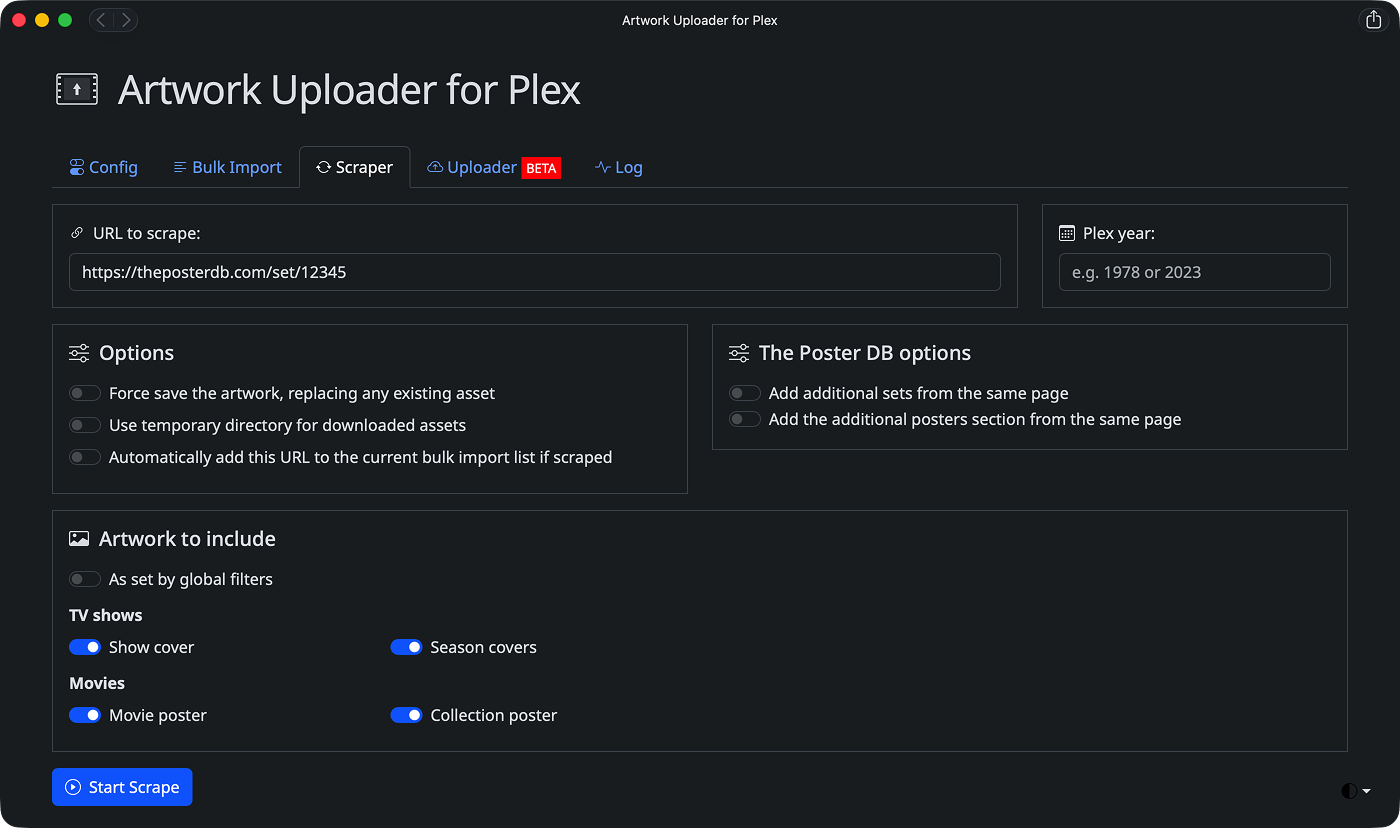
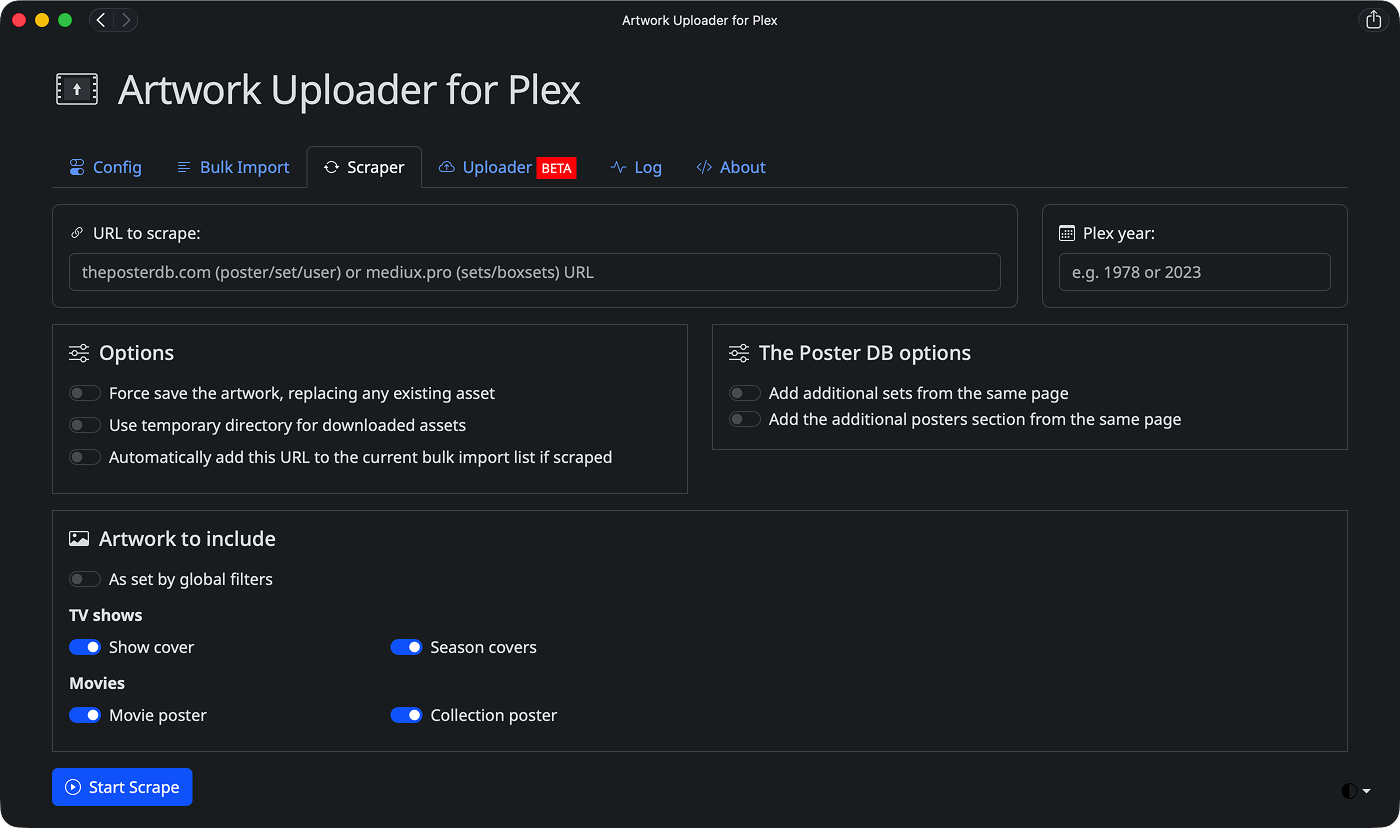
Updated README.md and screenshots to include about tab

diff --git a/README.md b/README.md
@@ -2,11 +2,11 @@
 # Artwork Uploader for Plex 
 Adapted from a fork of plex-poster-set-helper by Brian Brown
 
-Artwork Uploader is a tool to help upload sets of posters from ThePosterDB or MediUX (including sets and boxsets) or scrape posters from MediUX and upload them to your Plex server in seconds!
+Artwork Uploader is a tool to help process sets of posters from ThePosterDB or MediUX (including sets and boxsets) and upload them to your Plex server or download them to your Kometa aset directory in seconds!
 
 # What's different from Brian's original app?
 ### Upload Zip files
-You can upload the Zip file you download from theposterdb.com or mediux.pro.  It should handle all types of Zip, including the odd misnamed file from MediUX.  This feature is still in Beta so help me out with some feedback here!
+You can upload the Zip file you download from theposterdb.com or mediux.pro.  It should handle all types of Zip, including the odd misnamed file from MediUX.  This feature is still in Beta so help out with some feedback here!
 This is also to keep theposterdb happy that we're not breaking their terms of service by scraping.
 
 ### Artwork tracking for speedy updates
@@ -19,7 +19,7 @@ If you really want to upload artwork again, use the ```--force``` option at the 
 There are also a couple of new options for thePosterDb, which will allow you to also grab additional sets and additional posters from the same page.  This is sometimes useful for big sets like the Marvel or Disney movies, where you'll otherwise need to specify multiple sets.  This is against the terms of service of theposterdb.com so we encourage you to login, download the files you want, and upload them using this tool, rather than scraping.  Once an API is available we'll switch over ASAP.
 
 ### Per-URL filtering and artwork excludes 
-And there are other options such as per-URL filtering, fixing missing things that I found while I was using the tool (where I wanted to apply episode title cards but didn't like the season artwork for example).  And if you don't like a particular piece of artwork or poster from a set, you can now exclude it.
+And there are other options such as per-URL filtering, fixing missing things that I found while I was using the tool (where I wanted to apply episode title cards but didn't like the season artwork for example).  And if you don't like a particular piece of artwork or poster from a set, you can now exclude it. You can also exclude entire seasons or individual espisode, that way the app doesn't have to provess all the previous seasons for whic you already have artwork applied.
 
 ### Kometa support
 Kometa support is offered in two different ways. The simple way is for the script to reset Kometa's overlay label so the next time Kometa runs the overlay gets added to the new artwork (`reset_overlay` set to `true` in config.json). Alternatively, if you're using Kometa's [asset directory](https://kometa.wiki/en/latest/kometa/guides/assets/) to manage all your Plex custom art, you can check the option to save the artwork to the Kometa asset directory instead of applying it direectly to Plex (either in the GUI or by setting `save_to_kometa` to `true` in the config.json file). In that case, whenever Kometa runs again it will apply all new or updated artwork with its corresponding overlays. If this option is enabled, you will have to set the Kometa base directory (`kometa_base` in the config file, or with the appropriate text field in the GUI) to the base asset directory.
@@ -133,12 +133,11 @@ services:
       - "4567:4567"
     volumes:
       - ./bulk_imports:/artwork-uploader/bulk_imports:rw
-      - ./config.json:/artwork-uploader/config.json:rw
-      - C:\Users\<USERNAME>\Kometa\config\assets:/assets:rw
-      - C:\Temp\assets:/temp:rw
+      - ./config:/artwork-uploader/config:rw
+      - <HOST_PATH_TO_KOMETA_ASSET_DIRECTORY>:/assets:rw
+      - <HOST_TEMP_PATH>:/temp:rw
     environment:
       - TZ=Etc/UTC
-      - PYTHONUNBUFFERED=1
       - RUNNING_IN_DOCKER=1
     restart: unless-stopped      
 ```
@@ -198,13 +197,13 @@ Then CD to the folder where you extracted Artwork Uploader
 
 You may need to use ```python3 -m pip install -r requirements.txt```
 
-### 5. Rename ```example_config.json``` to ```config.json```.  
+### 5. Rename ```example_config.json``` to ```config.json``` inside the ```/config``` directory.  
 This is optional - if you don't do this, a new config.json will be created when you first run the utility and you'll be prompted to edit the config.
 
 ### 6. Edit your config.json to provide the following information:  
 
 ```"base_url"```  
-- The IP address (and port) of your Plex server. e.g. "http://12.34.56.78:32400/".
+- The IP address (and port) of your Plex server. e.g. "http://12.34.56.78:32400/" or https://myplex.example.com if behind a reverse proxy like Nginx or Caddy.
 
 ```"token"```  
 - Your Plex token (can be found [here](https://support.plex.tv/articles/204059436-finding-an-authentication-token-x-plex-token/)).
@@ -250,7 +249,7 @@ This is optional - if you don't do this, a new config.json will be created when 
 - Provide a comma-separated list of Apprise service URLs to send notifications upong completion of scheduled bulk imports. Check [the Apprise service list](https://appriseit.com/services/) for details on the supported services and how to set them up and generate a notification URL for your favorite services.
 
 ### Filter options
-Both mediux_filters and tpdb_filters specify which artwork types to upload by including the flags below.  Specify one or more in an array ["show_cover, "title_card"]
+Both mediux_filters and tpdb_filters specify which artwork types to upload by including the flags below.  Specify one or more in an array ["show_cover, "title_card"]. TPDb does not provide title cards or backgrounds so these filters are not available in the web UI.
       - show_cover
       - background
       - season_cover
@@ -265,7 +264,7 @@ Both mediux_filters and tpdb_filters specify which artwork types to upload by in
 
 If you want to use Docker, there is a Dockerfile in the repo to allow it to be deployed in a container alongside a plex container. 
 
-Clone the repository and use the `docker-compose.yml` file to deploy it with docker compose. Or copy this block in a `docker-compose.yml` file pointing to the location of the repository to build the image instead of the `.` 
+Clone the repository and rename the `docker-compose.example.yml` file as `docker-compose.yml` and customize the Kometa asset and temp paths (or comment them out if you don't use Kometa) to deploy it with docker compose. Or copy this block in a `docker-compose.yml` file pointing to the location of the repository to build the image instead of the `.`
 
 ```yaml
 services:
@@ -276,12 +275,11 @@ services:
       - "4567:4567"
     volumes:
       - ./bulk_imports:/artwork-uploader/bulk_imports:rw
-      - ./config.json:/artwork-uploader/config.json:rw
-      - C:\Users\<USERNAME>\Kometa\config\assets:/assets:rw # Optional, only if you want to save the assets locally to your Kometa asset directory
-      - C:\Temp\assets:/temp:rw # Optional, only if you're saving assets locally and want to have a temp dir for testing purposes
+      - ./config:/artwork-uploader/config:rw
+      - <HOST_PATH_TO_KOMETA_ASSET_DIRECTORY>:/assets:rw # Optional, only if you want to save the assets locally to your Kometa asset directory
+      - <HOST_TEMP_PATH>:/temp:rw # Optional, only if you're saving assets locally and want to have a temp dir for testing purposes
     environment:
       - TZ=Etc/UTC
-      - PYTHONUNBUFFERED=1
       - RUNNING_IN_DOCKER=1
     restart: unless-stopped    
 ```
@@ -350,9 +348,9 @@ The script supports various command-line arguments for flexible use.
 - ThePosterDB is a number
 - MediUX is a UUID
 - For TV shows, you can also exclude specific episodes or entire seasons:
-  - ```--exclude s01e05``` - Excludes season 1 episode 5
+  - ```--exclude s01e05``` - Excludes the title card for season 1 episode 5
   - ```--exclude s1e5``` - Same as above (both formats work)
-  - ```--exclude s02``` - Excludes all episodes in season 2
+  - ```--exclude s02``` - Excludes season cover and all episode title cards for season 2
   - ```--exclude s00e01 s02``` - Excludes specials episode 1 and all of season 2
   - You can mix artwork IDs and episode/season patterns in the same command
     
@@ -483,6 +481,8 @@ If you see errors like this in your logs:
 
 Flask correctly rejects these with a 400 error since it doesn't support HTTPS by default. You can safely ignore these messages - they don't affect functionality.
 
+If you want to access the app over HTTPS you can use a reverse proxy like Nginx or Caddy.
+
 ### "eventlet monkey_patch" errors
 
 If you see errors related to eventlet on Python 3.13, consider using Python 3.11 or 3.12 instead, as eventlet has known compatibility issues with Python 3.13.
@@ -570,6 +570,7 @@ It's still work in progress, as is this entire app!  I wouldn't consider it "pro
 ![Scraper](assets/scraper-tab.png)
 ![Upload ZIP](assets/upload-tab.png)
 ![Log](assets/log-tab.png)
+![About](assets/about-tab.png)
 
 
 ## Multiple Libraries
